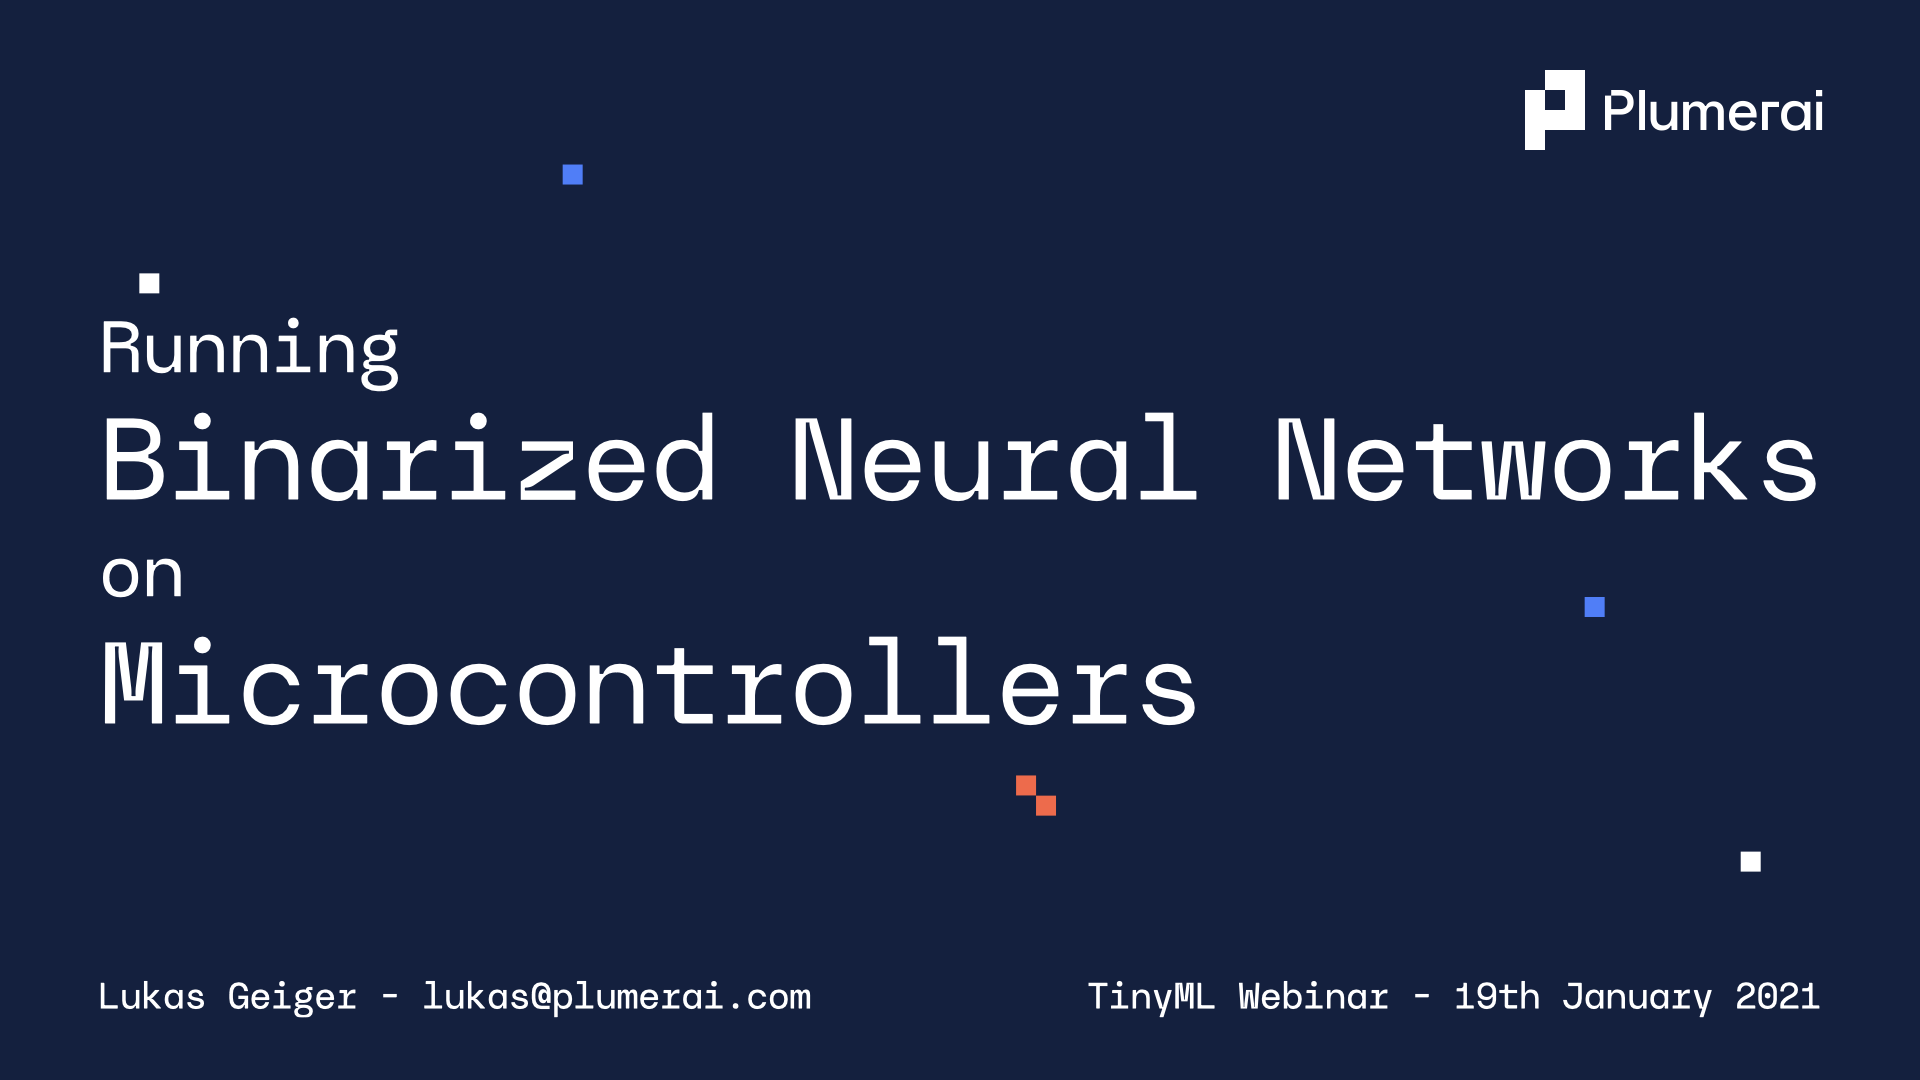
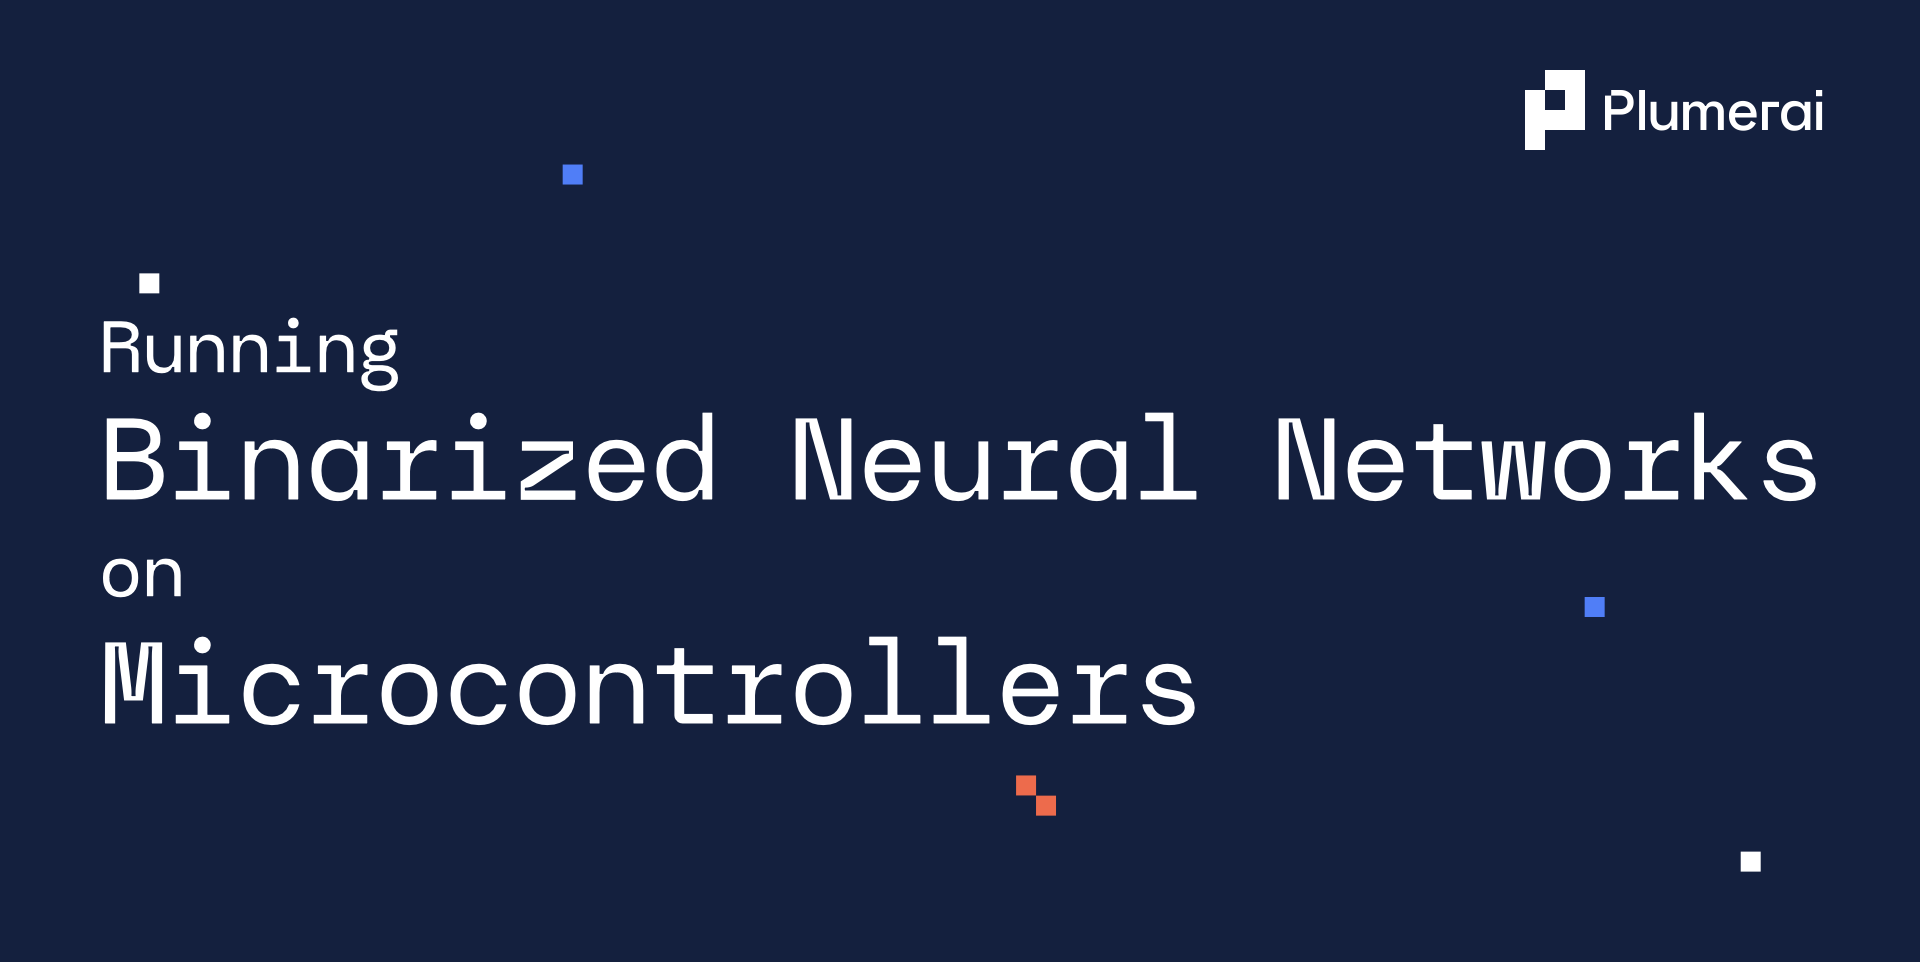
Change aspect ratio of social image to fix twitter card (#6)
* Change aspect ratio of social image to fix twitter card

* Fix twitter cards

diff --git a/themes/plumerai-blog/layouts/partials/head.html b/themes/plumerai-blog/layouts/partials/head.html
@@ -8,35 +8,35 @@
     <link rel="mask-icon" href="/images/safari-pinned-tab.svg" color="#102040" />
     <link rel="alternate icon" type="image/png" href="/images/favicon.ico" />
 
-    <meta property="twitter:card" content="summary_large_image">
+    <meta name="twitter:card" content="summary_large_image">
 
     <!-- Homepage -->
     {{ if .IsHome }}
     <title>{{ .Site.Title }}</title>
     <meta name="title" content="{{ .Site.Title }}">
     <meta property="og:title" content="{{ .Site.Title }}">
-    <meta property="twitter:title" content="{{ .Site.Title }}">
+    <meta name="twitter:title" content="{{ .Site.Title }}">
 
     {{ $description := "News and updates about Plumerai."}}
     <meta name="description" content="{{ $description }}">
     <meta property="og:description" content="{{ $description }}">
-    <meta property="twitter:description" content="{{ $description }}">
+    <meta name="twitter:description" content="{{ $description }}">
 
     <meta property="og:image" content="{{ .Site.BaseURL}}images/larq-hero.png">
-    <meta property="twitter:image" content="{{ .Site.BaseURL }}images/larq-hero.png">
+    <meta name="twitter:image" content="{{ .Site.BaseURL }}images/larq-hero.png">
 
     <!-- Individual blog posts -->
     {{ else }}
     <title>{{ .Page.Title }} | {{ .Site.Title }}</title>
     <meta name="title" content="{{ .Page.Title }} | {{ .Site.Title }}">
     <meta property="og:title" content="{{ .Page.Title }} | {{ .Site.Title }}">
-    <meta property="twitter:title" content="{{ .Page.Title }} | {{ .Site.Title }}">
+    <meta name="twitter:title" content="{{ .Page.Title }} | {{ .Site.Title }}">
 
     <meta name="description" content="{{ .Page.Params.socialDescription }}">
     <meta property="og:description" content="{{ .Page.Params.socialDescription }}">
-    <meta property="twitter:description" content="{{ .Page.Params.socialDescription }}">
+    <meta name="twitter:description" content="{{ .Page.Params.socialDescription }}">
 
     <meta property="og:image" content="{{ .Site.BaseURL }}{{ .Page.Params.socialImage }}">
-    <meta property="twitter:image" content="{{ .Site.BaseURL }}{{ .Page.Params.socialImage }}">
+    <meta name="twitter:image" content="{{ .Site.BaseURL }}{{ .Page.Params.socialImage }}">
     {{ end }}
 </head>
